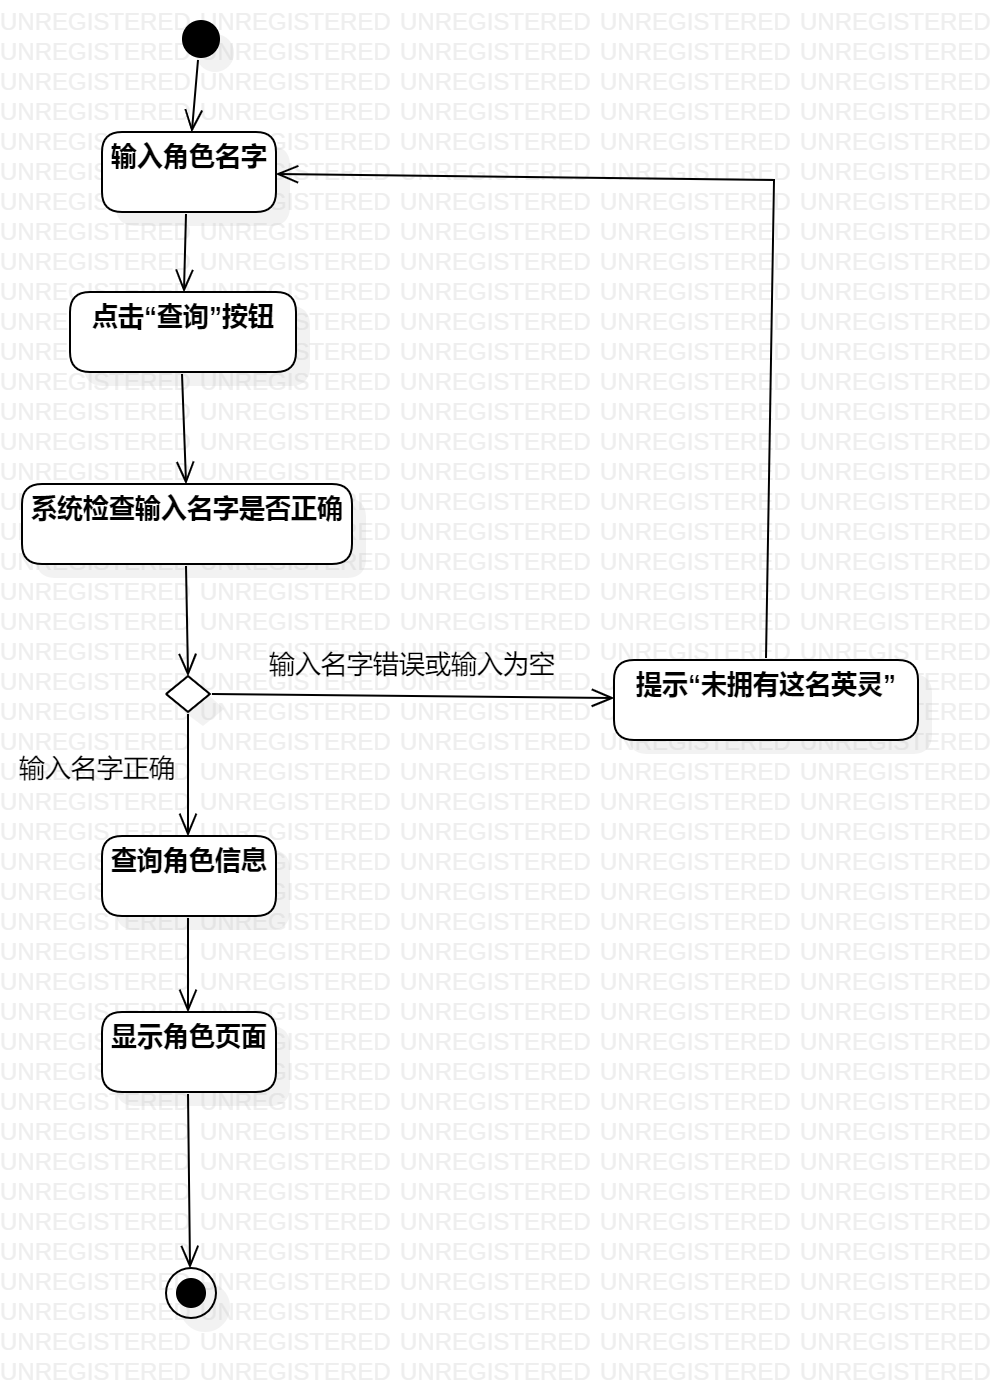
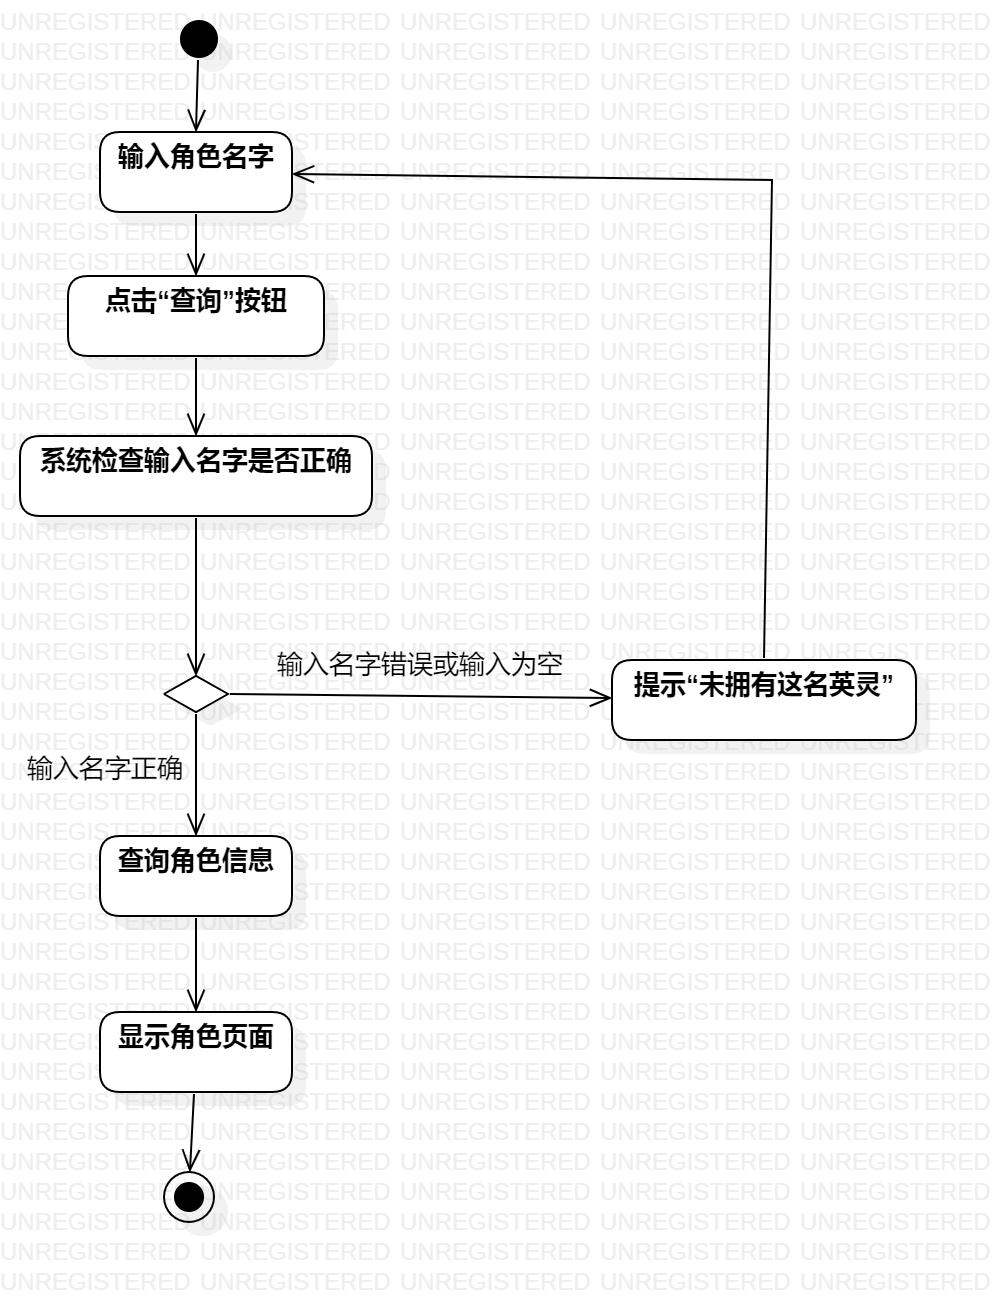
实验六和之前图片的重新排版

diff --git a/students/1714080902211/lab6.md b/students/1714080902211/lab6.md
@@ -1,0 +1,49 @@
+# 实验六 交互建模
+
+## 实验目标
+
+1.理解系统交互；
+
+2.掌握UML顺序图的画法；
+
+3.掌握对象交互的定义与建模方法。
+
+## 实验内容
+
+1.根据用例模型和类模型，确定功能所涉及的系统对象；
+
+2.在顺序图上画出参与者（对象）；
+
+3.在顺序图上画出消息（交互）。
+
+##实验步骤
+
+1.观看老师上传的视频
+
+2.对照用例规约、活动图和类图绘制交互建模
+
+3.编写试验报告
+
+## 上课笔记内容
+
+顺序图的画法：
+
+1.从用例图找到第一个参与者（Actor）
+
+2.从类图找到N个参与者，总共N+1个参与者1
+
+3.从活动图找到操作步骤，画出参与者之间的消息
+
+## 实验结果
+
+![add](./add6.jpg)
+
+图一：添加角色数据的顺序图
+
+![mark](./mark6.jpg)
+
+图二：标注角色的顺序图
+
+![query](./query6.jpg)
+
+图三：查询角色的顺序图
